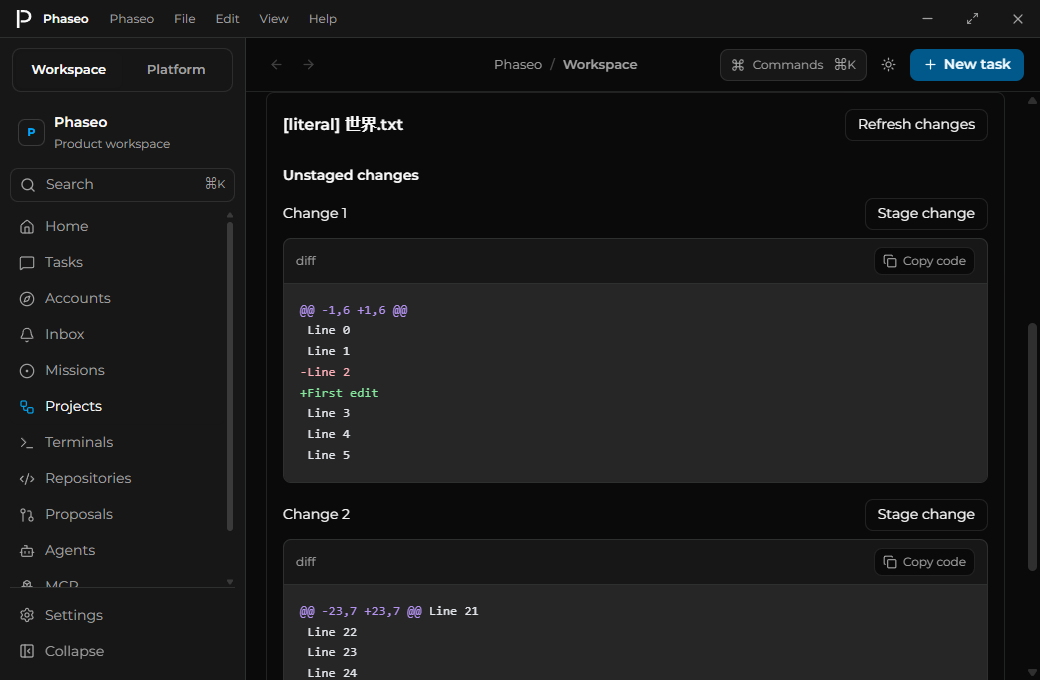
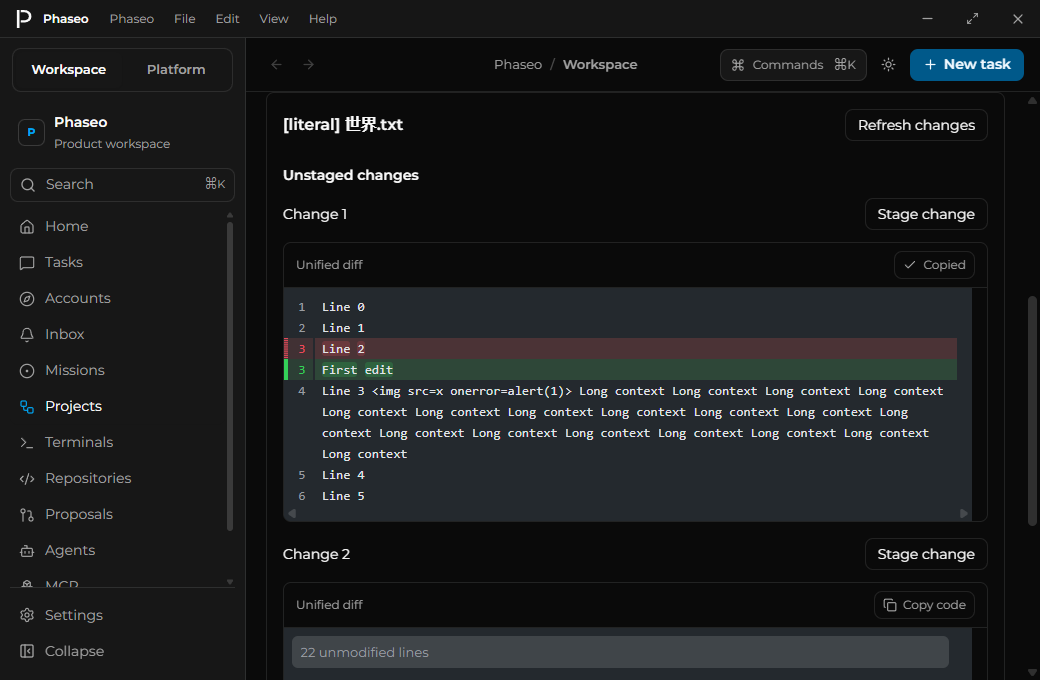
feat(desktop): add split and unified Git review

diff --git a/apps/desktop/src/renderer/views/Projects.tsx b/apps/desktop/src/renderer/views/Projects.tsx
@@ -5,6 +5,8 @@ import type { EditorId, EditorInstallation, ProjectOpenRequest } from "../../sha
 import { emptyOverview, type WorkspaceOverview } from "../../shared/workspaceOverview";
 import { CodeBlock } from "../components/MessageContent";
 import { GitHunkPanel } from "../components/GitHunkPanel";
+import { DiffView } from "../components/DiffView";
+import type { DiffLayout } from "../components/diffRendering";
 import { usePersistedState } from "../lib/persistedState";
 
 export function Projects() {
@@ -22,6 +24,8 @@ export function Projects() {
 	const dirty = Boolean(preview && draft !== preview.text);
 	const [review, setReview] = useState<GitReview>();
 	const [hunkFile, setHunkFile] = useState<string>();
+	const [savedDiffLayout, setDiffLayout] = usePersistedState<DiffLayout>("phaseo.desktop.diffLayout", "split");
+	const diffLayout = savedDiffLayout === "unified" ? "unified" : "split";
 	const [branches, setBranches] = useState<string[]>([]);
 	const [branchName, setBranchName] = useState("");
 	const [worktreeBranch, setWorktreeBranch] = useState(""); const [worktreeBase, setWorktreeBase] = useState("HEAD");
@@ -127,6 +131,7 @@ export function Projects() {
 				<button type="button" disabled={gitBusy || !branchName.trim()} onClick={() => void changeGit({ type: "create-branch", name: branchName.trim() })}>Create branch</button>
 			</div>
 			<h2>Working changes</h2>
+			<div className="project-toolbar" role="group" aria-label="Diff layout"><button type="button" aria-pressed={diffLayout === "unified"} onClick={() => setDiffLayout("unified")}>Unified</button><button type="button" aria-pressed={diffLayout === "split"} onClick={() => setDiffLayout("split")}>Side by side</button></div>
 			{review.files.length ? <div className="git-file-list">{review.files.map(file => <div className="project-toolbar" key={file.path}>
 				<code>{file.indexStatus}{file.worktreeStatus}</code><span>{file.oldPath ? `${file.oldPath} → ` : ""}{file.path}</span>
 				<button type="button" disabled={gitBusy} aria-pressed={hunkFile === file.path} onClick={() => setHunkFile(file.path)}>Review changes</button>
@@ -134,7 +139,7 @@ export function Projects() {
 				{file.worktreeStatus !== " " && <button type="button" disabled={gitBusy} onClick={() => void changeGit({ type: "stage", filename: file.path })}>Stage</button>}
 				{![" ", "?"].includes(file.indexStatus) && <button type="button" disabled={gitBusy} onClick={() => void changeGit({ type: "unstage", filename: file.path })}>Unstage</button>}
 			</div>)}</div> : <p className="task-muted">Working tree is clean.</p>}
-			{hunkFile && review.files.some(file => file.path === hunkFile) ? <><button type="button" disabled={gitBusy} onClick={() => setHunkFile(undefined)}>All changes</button><GitHunkPanel key={`${id}:${hunkFile}`} projectId={id} filename={hunkFile} revision={review} busy={gitBusy} onCommand={changeGit} /></> : <><h2>Unstaged changes</h2>{review.diff ? <CodeBlock text={review.diff} language="diff" /> : <p className="task-muted">No unstaged changes.</p>}<h2>Staged changes</h2>{review.stagedDiff ? <CodeBlock text={review.stagedDiff} language="diff" /> : <p className="task-muted">No staged changes.</p>}</>}
+			{hunkFile && review.files.some(file => file.path === hunkFile) ? <><button type="button" disabled={gitBusy} onClick={() => setHunkFile(undefined)}>All changes</button><GitHunkPanel key={`${id}:${hunkFile}`} projectId={id} filename={hunkFile} revision={review} busy={gitBusy} layout={diffLayout} onCommand={changeGit} /></> : <><h2>Unstaged changes</h2>{review.diff ? <DiffView patch={review.diff} layout={diffLayout} /> : <p className="task-muted">No unstaged changes.</p>}<h2>Staged changes</h2>{review.stagedDiff ? <DiffView patch={review.stagedDiff} layout={diffLayout} /> : <p className="task-muted">No staged changes.</p>}</>}
 			<div className="project-toolbar"><input aria-label="Commit message" placeholder="Commit message" value={commitMessage} onChange={event => setCommitMessage(event.target.value)} /><button type="button" disabled={gitBusy || !commitMessage.trim() || !review.stagedDiff} onClick={() => void changeGit({ type: "commit", message: commitMessage })}>Commit staged changes</button></div>
 			<details className="project-worktree"><summary>Create worktree</summary>
 			<form className="project-toolbar" aria-label="Create worktree" onSubmit={event => { event.preventDefault(); void createWorktree(); }}><label>Worktree branch<input aria-label="Worktree branch" value={worktreeBranch} onChange={event => setWorktreeBranch(event.target.value)} maxLength={200} required disabled={gitBusy} /></label><label>Starting ref<input aria-label="Worktree starting ref" list="worktree-refs" value={worktreeBase} onChange={event => setWorktreeBase(event.target.value)} maxLength={1000} required disabled={gitBusy} /><datalist id="worktree-refs"><option value="HEAD" />{branches.map(branch => <option key={branch} value={branch} />)}</datalist></label><button type="submit" disabled={gitBusy || !worktreeBranch.trim() || !worktreeBase.trim()}>Create worktree</button></form>

diff --git a/apps/desktop/src/renderer/components/GitHunkPanel.tsx b/apps/desktop/src/renderer/components/GitHunkPanel.tsx
@@ -1,8 +1,9 @@
 import { useEffect, useRef, useState } from "react";
 import type { GitCommand, GitHunkReview, GitReview } from "../../shared/workspace";
-import { CodeBlock } from "./MessageContent";
+import { DiffView } from "./DiffView";
+import type { DiffLayout } from "./diffRendering";
 
-export function GitHunkPanel({ projectId, filename, revision, busy, onCommand }: { projectId: string; filename: string; revision: GitReview; busy: boolean; onCommand: (command: GitCommand) => Promise<void> }) {
+export function GitHunkPanel({ projectId, filename, revision, busy, layout, onCommand }: { projectId: string; filename: string; revision: GitReview; busy: boolean; layout: DiffLayout; onCommand: (command: GitCommand) => Promise<void> }) {
 	const [reviews, setReviews] = useState<GitHunkReview[]>([]);
 	const [loading, setLoading] = useState(false);
 	const [error, setError] = useState("");
@@ -24,6 +25,6 @@ export function GitHunkPanel({ projectId, filename, revision, busy, onCommand }:
 		{loading && <p className="task-muted" role="status">Loading changes…</p>}
 		{error && <p role="alert">{error}</p>}
 		{!loading && !error && !reviews.some(review => review.hunks.length) && <p className="task-muted">No individual text changes. Use the file actions above.</p>}
-		{!loading && !error && reviews.filter(review => review.hunks.length).map(review => <div key={String(review.staged)}><h3>{review.staged ? "Staged changes" : "Unstaged changes"}</h3>{review.hunks.map(hunk => <div className="git-hunk" key={`${review.hash}:${hunk.index}`}><div className="project-toolbar"><span>Change {hunk.index + 1}</span><button type="button" disabled={busy} aria-label={`${review.staged ? "Unstage" : "Stage"} change ${hunk.index + 1} in ${filename}`} onClick={() => void change(review, hunk.index)}>{review.staged ? "Unstage change" : "Stage change"}</button></div><CodeBlock text={hunk.text} language="diff" /></div>)}</div>)}
+		{!loading && !error && reviews.filter(review => review.hunks.length).map(review => <div key={String(review.staged)}><h3>{review.staged ? "Staged changes" : "Unstaged changes"}</h3>{review.hunks.map(hunk => <div className="git-hunk" key={`${review.hash}:${hunk.index}`}><div className="project-toolbar"><span>Change {hunk.index + 1}</span><button type="button" disabled={busy} aria-label={`${review.staged ? "Unstage" : "Stage"} change ${hunk.index + 1} in ${filename}`} onClick={() => void change(review, hunk.index)}>{review.staged ? "Unstage change" : "Stage change"}</button></div><DiffView patch={hunk.patch} copyText={hunk.text} layout={layout} hideHeader /></div>)}</div>)}
 	</section>;
 }

diff --git a/apps/desktop/src/renderer/components/DiffRenderer.tsx b/apps/desktop/src/renderer/components/DiffRenderer.tsx
@@ -1,0 +1,25 @@
+import { FileDiff } from "@pierre/diffs/react";
+import { Check, Copy } from "lucide-react";
+import { useEffect, useMemo, useState } from "react";
+import { CodeBlock } from "./MessageContent";
+import { parseReviewPatch } from "./diffRendering";
+import { useTextCopy } from "./useTextCopy";
+import type { DiffViewProps } from "./DiffView";
+
+export function DiffRenderer({ patch, layout, copyText = patch, hideHeader = false }: DiffViewProps) {
+	const files = useMemo(() => parseReviewPatch(patch), [patch]);
+	const [theme, setTheme] = useState<"light" | "dark">(() => document.documentElement.dataset.theme === "dark" ? "dark" : "light");
+	const { status, copying, copy } = useTextCopy(copyText);
+	useEffect(() => {
+		const observer = new MutationObserver(() => setTheme(document.documentElement.dataset.theme === "dark" ? "dark" : "light"));
+		observer.observe(document.documentElement, { attributes: true, attributeFilter: ["data-theme"] });
+		return () => observer.disconnect();
+	}, []);
+	const options = useMemo(() => ({ diffStyle: layout, theme: { light: "github-light", dark: "github-dark" }, themeType: theme, preferredHighlighter: "shiki-js" as const, overflow: "wrap" as const, disableFileHeader: hideHeader, hunkSeparators: "line-info" as const, tokenizeMaxLength: 50_000, tokenizeMaxLineLength: 4000, lineDiffType: "word" as const, unsafeCSS: "[data-diffs-header]{font-family:Montserrat,ui-sans-serif,system-ui,sans-serif;padding:12px 16px;background:var(--surface-muted);color:var(--text)}" }), [layout, theme, hideHeader]);
+	const fallback = <CodeBlock text={copyText} language="diff" />;
+	if (!files) return fallback;
+	return <div className="review-diff" data-layout={layout}>
+		<div className="message-code-actions"><span aria-live="polite">{status === "failed" ? "Copy failed" : layout === "split" ? "Before / After" : "Unified diff"}</span><button type="button" onClick={() => void copy()} disabled={copying} aria-label={status === "copied" ? "Copied" : "Copy code"}>{status === "copied" ? <Check size={14} /> : <Copy size={14} />}{status === "copied" ? "Copied" : "Copy code"}</button></div>
+		<div className="review-diff-content" tabIndex={0} aria-label={layout === "split" ? "Side-by-side changes" : "Unified changes"}>{files.map((file, index) => <FileDiff key={`${index}:${file.name}`} fileDiff={file} options={options} />)}</div>
+	</div>;
+}

diff --git a/apps/desktop/src/renderer/components/diffRendering.test.ts b/apps/desktop/src/renderer/components/diffRendering.test.ts
@@ -1,0 +1,30 @@
+import { describe, expect, it } from "vitest";
+import { parseReviewPatch } from "./diffRendering";
+
+const changed = "diff --git a/example.ts b/example.ts\nindex 1111111..2222222 100644\n--- a/example.ts\n+++ b/example.ts\n@@ -2,2 +2,2 @@\n-const before = true;\n+const after = false;\n context\n";
+
+describe("desktop review diffs", () => {
+	it("retains both sides, original line positions and multiple file patches", () => {
+		const files = parseReviewPatch(changed + changed.replaceAll("example.ts", "other.ts"))!;
+		expect(files.map(file => file.name)).toEqual(["example.ts", "other.ts"]);
+		expect(files[0].deletionLines.join("")).toBe("const before = true;\ncontext\n");
+		expect(files[0].additionLines.join("")).toBe("const after = false;\ncontext\n");
+		expect(files[0].hunks[0].deletionStart).toBe(2);
+		expect(files[0].hunks[0].additionStart).toBe(2);
+	});
+	it("decodes Git's quoted Unicode paths and retains missing-newline metadata", () => {
+		const path = String.raw`[literal] \344\270\226\347\225\214.txt`;
+		const patch = `diff --git "a/${path}" "b/${path}"\nindex 1111111..2222222 100644\n--- "a/${path}"\n+++ "b/${path}"\n@@ -1 +1 @@\n-before\n\\ No newline at end of file\n+after\n\\ No newline at end of file\n`;
+		const file = parseReviewPatch(patch)![0];
+		expect(file.name).toBe("[literal] 世界.txt");
+		expect(file.hunks[0].noEOFCRAdditions).toBe(true);
+		expect(file.hunks[0].noEOFCRDeletions).toBe(true);
+	});
+	it("renders added and deleted text files while retaining a raw fallback for unsupported patches", () => {
+		const added = "diff --git a/new.txt b/new.txt\nnew file mode 100644\nindex 0000000..1111111\n--- /dev/null\n+++ b/new.txt\n@@ -0,0 +1 @@\n+hello\n";
+		const deleted = "diff --git a/old.txt b/old.txt\ndeleted file mode 100644\nindex 1111111..0000000\n--- a/old.txt\n+++ /dev/null\n@@ -1 +0,0 @@\n-goodbye\n";
+		expect(parseReviewPatch(added)![0].additionLines.join("")).toBe("hello\n");
+		expect(parseReviewPatch(deleted)![0].deletionLines.join("")).toBe("goodbye\n");
+		for (const patch of ["not a patch", "diff --git a/file b/file\nBinary files a/file and b/file differ\n", "x".repeat(1_000_001), "\n".repeat(10_000)]) expect(parseReviewPatch(patch)).toBeUndefined();
+	});
+});

diff --git a/apps/desktop/src/renderer/components/DiffView.tsx b/apps/desktop/src/renderer/components/DiffView.tsx
@@ -1,0 +1,18 @@
+import { Component, lazy, Suspense, type ReactNode } from "react";
+import { CodeBlock } from "./MessageContent";
+import type { DiffLayout } from "./diffRendering";
+
+export type DiffViewProps = { patch: string; layout: DiffLayout; copyText?: string; hideHeader?: boolean };
+const Renderer = lazy(() => import("./DiffRenderer").then(module => ({ default: module.DiffRenderer })));
+
+class DiffBoundary extends Component<{ children: ReactNode; source: string; fallback: ReactNode }, { failed: boolean }> {
+	state = { failed: false };
+	static getDerivedStateFromError() { return { failed: true }; }
+	componentDidUpdate(previous: Readonly<{ children: ReactNode; source: string; fallback: ReactNode }>) { if (previous.source !== this.props.source && this.state.failed) this.setState({ failed: false }); }
+	render() { return this.state.failed ? this.props.fallback : this.props.children; }
+}
+
+export function DiffView(props: DiffViewProps) {
+	const fallback = <CodeBlock text={props.copyText ?? props.patch} language="diff" />;
+	return <DiffBoundary source={props.patch} fallback={fallback}><Suspense fallback={fallback}><Renderer {...props} /></Suspense></DiffBoundary>;
+}

diff --git a/apps/desktop/src/renderer/styles.css b/apps/desktop/src/renderer/styles.css
@@ -533,3 +533,7 @@ button { color: inherit; }
 .project-worktree summary { width: fit-content; cursor: pointer; font-size: 14px; font-weight: 600; padding-block: 8px; }
 .project-worktree summary:focus-visible { outline: 2px solid var(--ring); outline-offset: 4px; border-radius: 4px; }
 .project-worktree > form { margin-top: 16px; margin-bottom: 0; }
+.review-diff { margin: 12px 0 16px; overflow: hidden; border: 1px solid var(--border); border-radius: 8px; }
+.review-diff-content { max-height: 65vh; overflow: auto; min-width: 0; scrollbar-gutter: stable; }
+.review-diff-content diffs-container { display: block; --diffs-font-size: 13px; --diffs-line-height: 21px; --diffs-font-family: ui-monospace, Consolas, monospace; --diffs-header-font-family: Montserrat, ui-sans-serif, system-ui, sans-serif; }
+.review-diff-content diffs-container + diffs-container { border-top: 1px solid var(--border); }

diff --git a/apps/desktop/src/main/projectEditors.test.ts b/apps/desktop/src/main/projectEditors.test.ts
@@ -1,4 +1,5 @@
 import { mkdtempSync, mkdirSync, readFileSync, rmSync, symlinkSync, writeFileSync } from "node:fs";
+import { rm } from "node:fs/promises";
 import { tmpdir } from "node:os";
 import path from "node:path";
 import { describe, expect, it, vi } from "vitest";
@@ -97,7 +98,8 @@ describe("external editors", () => {
 		} finally {
 			if (originalNode === undefined) delete process.env.NODE_OPTIONS; else process.env.NODE_OPTIONS = originalNode;
 			if (originalElectron === undefined) delete process.env.ELECTRON_RUN_AS_NODE; else process.env.ELECTRON_RUN_AS_NODE = originalElectron;
-			rmSync(project, { recursive: true, force: true, maxRetries: 5, retryDelay: 100 });
+			// Yield while Windows releases the detached child's process and cwd handles.
+			await rm(project, { recursive: true, force: true, maxRetries: 5, retryDelay: 100 });
 		}
 	});
 });

diff --git a/apps/desktop/src/renderer/components/diffRendering.ts b/apps/desktop/src/renderer/components/diffRendering.ts
@@ -1,0 +1,13 @@
+import { parsePatchFiles, type FileDiffMetadata } from "@pierre/diffs";
+
+export type DiffLayout = "unified" | "split";
+
+export function parseReviewPatch(patch: string): FileDiffMetadata[] | undefined {
+	// Keep oversized or unsupported patches readable without expensive tokenization.
+	if (patch.length > 1_000_000 || patch.split("\n").length > 10_000) return;
+	try {
+		const files = parsePatchFiles(patch, undefined, true).flatMap(value => value.files);
+		if (!files.length || files.some(file => !file.hunks.length)) return;
+		return files;
+	} catch { return; }
+}

diff --git a/apps/desktop/WORKSPACE-PLAN.md b/apps/desktop/WORKSPACE-PLAN.md
@@ -253,7 +253,7 @@ Agent and MCP submit/cancel actions now share a full-width action row beneath th
 
 Conversation code now uses Shiki 4.4.3, matching the website's GitHub light/dark colours. Selected common grammars load locally on demand; unsupported or oversized blocks keep plain text. React token rendering preserves inert markup, indentation, Unicode and trailing newlines. Unit tests verify exact source preservation and bounded fallback; the rendered audit verifies visible colours and clipboard feedback in both themes/window sizes. Copy feedback now survives unrelated renders and resets only when the code text/language changes.
 
-Evidence: desktop lint/typecheck/build pass; 341 deterministic tests cover protocol,
+Evidence: desktop lint/typecheck/build pass; 344 deterministic tests cover protocol,
 queue ordering, cancellation, secret storage, filesystem boundaries, stream framing,
 and SDK approval continuation. An isolated Electron smoke test verified task CRUD,
 IPC validation, renderer navigation, real PTY execution, editor saving and stale-edit
@@ -283,7 +283,7 @@ Activity disclosures now use readable labels, padded bounded text and exact-sour
 
 Approval and question renderer controls now prevent duplicate submissions, show pending states and retain selections after failed delivery. Approval descriptions scroll within padded boundaries, and all request forms use wrapping action rows. Isolated rendered IPC-failure fixtures verify locking and retry behavior at both window sizes/themes. This is renderer evidence; complete native permission-policy parity and live provider delivery remain unfinished.
 
-File previews and staged/unstaged Git diffs now reuse the conversation code surface with offline highlighting and exact-source copying. Changed-file rows align staging controls and wrap long paths; empty staged/unstaged states are distinct. The visual audit uses an owned real Git repository at both window sizes/themes. Existing source/packaged workflow tests cover file editing, conflicts, staging and commits. Ordinary tracked text changes now support individual staging and unstaging, with stale-diff rejection and exact working-file preservation. File-specific review uses shared 16-pixel insets, website typography and code surfaces; All changes returns to the aggregate view. Source and packaged real-repository workflows verify both directions, duplicate-click protection, literal Unicode filenames and four theme/window captures. New/deleted files, binary content and mode changes retain whole-file actions. Side-by-side diffs, line staging and pull-request review remain unfinished.
+File previews and staged/unstaged Git diffs now reuse the conversation code surface with offline highlighting and exact-source copying. Changed-file rows align staging controls and wrap long paths; empty staged/unstaged states are distinct. The visual audit uses an owned real Git repository at both window sizes/themes. Existing source/packaged workflow tests cover file editing, conflicts, staging and commits. Ordinary tracked text changes now support individual staging and unstaging, with stale-diff rejection and exact working-file preservation. File-specific review uses shared 16-pixel insets, website typography and code surfaces; All changes returns to the aggregate view. Source and packaged real-repository workflows verify both directions, duplicate-click protection, literal Unicode filenames and four theme/window captures. New/deleted files, binary content and mode changes retain whole-file actions. Tracked text patches now render in split or unified form through the maintained Pierre diff library. Line staging and pull-request review remain unfinished.
 
 Attachment text previews reuse offline code rendering and exact-source copying within a bounded modal. Reads support retry and stale-response isolation. Escape restores focus explicitly to the attachment trigger. An owned stored-document fixture verifies loading/failure/retry, exact copying, scroll/window containment and native keyboard focus at both window sizes/themes. The packaged smoke retains PDF extraction/preview coverage; Office documents, audio, OCR and full accessibility remain outstanding.
 
@@ -296,3 +296,5 @@ Account usage now uses aligned full-width meters and separate windows/buckets, w
 Task history now scrolls independently of creation/search/archive controls. Long titles use two lines with a full-title tooltip, and selection exposes pressed state. The owned large-history workflow verifies retained controls and title clamping alongside paging, retries and selected conversation behavior. Full metadata/payload pagination and comprehensive accessibility remain unfinished.
 
 Git review now prioritizes changes and commits above a collapsed worktree form. The native disclosure preserves access to branch/ref inputs, with 16-pixel expanded spacing and no duplicate branch label. Source and packaged real-worktree workflow checks and four theme/window captures cover this hierarchy.
+
+Split/unified Git review now uses @pierre/diffs 1.5.1, the same library family used by the pinned T3 Code reference, adapted to website typography, GitHub light/dark syntax colours and wrapping code. The preference survives navigation, and the library loads only when reviewing a diff. Original line positions, Unicode paths, added/deleted text and missing-newline metadata have deterministic coverage. Unsupported metadata/binary or oversized patches retain their original raw surface and exact copying. Source and packaged real-repository workflows verify paired wrapped-line alignment, literal markup, copying failure/retry, persisted layout and unchanged working files while staging/unstaging. Eight captures cover both layouts/themes/window sizes. Full-file context expansion, large-review virtualization, line actions, PR workflows and complete accessibility remain open. Licence notices retain the Apache 2.0 licence and transitive dependencies. The editor process fixture now yields during owned-directory cleanup so Windows can release process handles.

diff --git a/apps/desktop/docs/design-audit.md b/apps/desktop/docs/design-audit.md
@@ -113,6 +113,10 @@ The sidebar now scrolls independently while Settings and Collapse remain accessi
 
 ![Worktree controls](screenshots/worktree-form.png)
 
+41. **Split and unified review:** the selected layout applies to aggregate and individual changes and persists across navigation. Paired code columns retain original line numbers, wrap long context and align both sides at minimum width. The lazily loaded Pierre viewer uses offline GitHub light/dark themes, Montserrat headers and shared copy feedback. Source and packaged checks cover literal source markup, Unicode paths, layout persistence, exact copy/retry and raw fallback for a mixed binary/text review. Eight additional captures are produced by `scripts/git-hunks-smoke.mjs`. Context expansion, virtualization and full keyboard/screen-reader review remain unverified.
+
+![Side-by-side code review](screenshots/git-review-split.png)
+
 ## Reproduce and limits
 
 Run `pnpm --filter @phaseo/desktop audit:design`. Captures and DOM size/spacing observations are written to `output/playwright/design-audit/after`. The audit waits for the selected page heading before capturing; conversation settings also wait for a rendered frame and verify their inset. It covers eleven pages plus conversation and settings states at 1440×920 and 1040×680 in light and dark modes: 136 screenshots, including code blocks, account editing, expanded agent commands, agent editing and Grok reasoning settings in each theme/window size.
